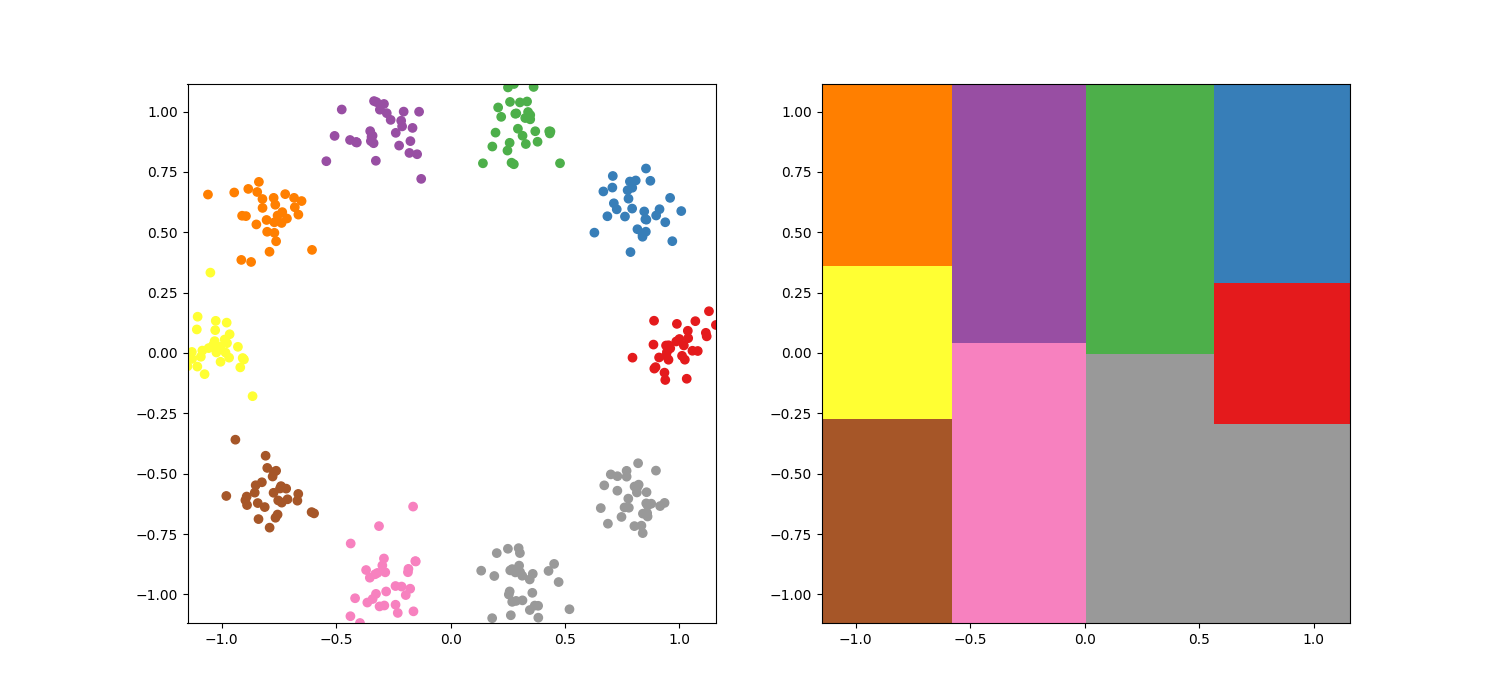
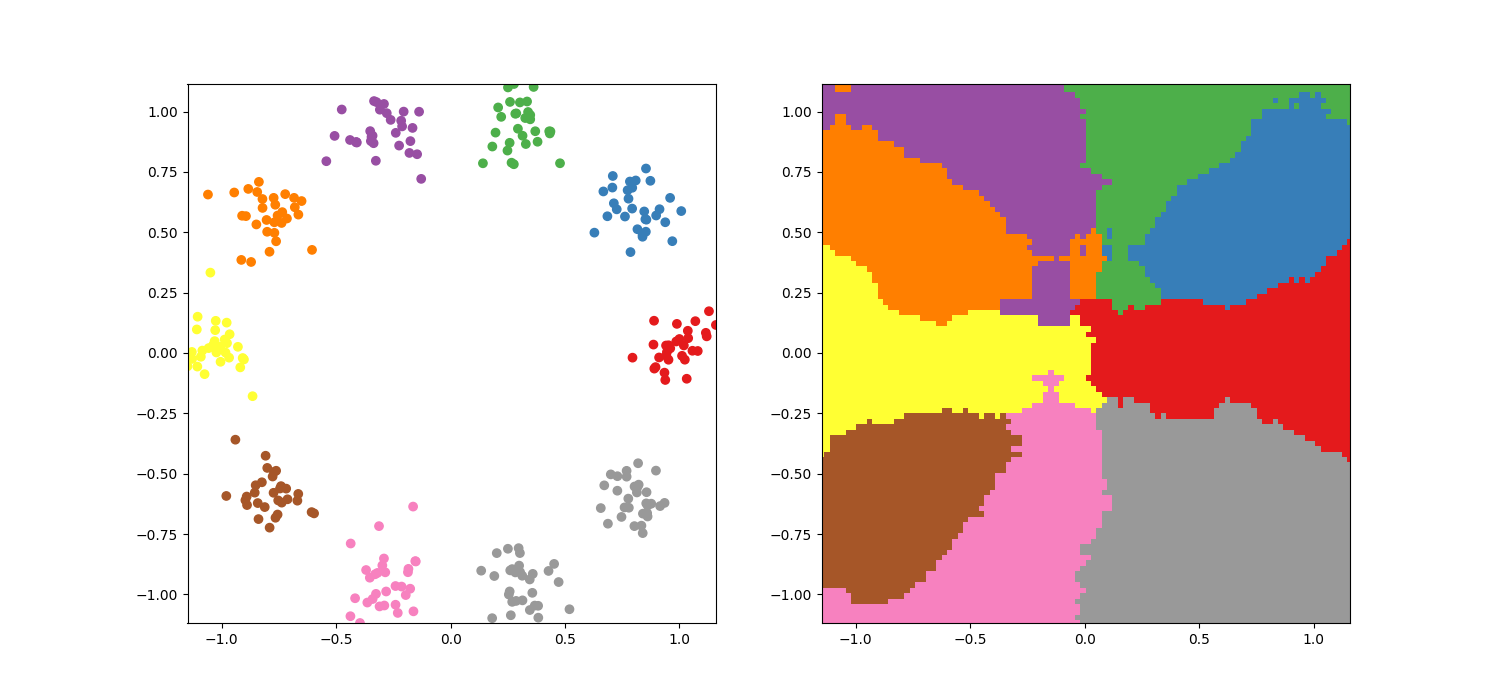
Task 9: Random forest (mode of tree predictions)

diff --git a/supervised_learning/decision_tree/9-main_2.py b/supervised_learning/decision_tree/9-main_2.py
@@ -1,0 +1,87 @@
+#!/usr/bin/env python3
+
+import matplotlib.pyplot as plt
+import numpy as np
+Random_Forest = __import__('9-random_forest').Random_Forest
+
+#                                     #########################
+#                                     # Generating examples : #
+#                                     #########################
+
+
+def circle_of_clouds(n_clouds, n_objects_by_cloud, radius=1, sigma=None, seed=0, angle=0):
+    """
+    This function returns a dataset made of 'n_clouds' classes.
+    Each class is a small gaussian cloud containing 'n_objects_by_cloud' points.
+    The centers of the clouds are regularly disposed on a circle of radius 'radius' (and center (0,0)).
+    The spreadth of the clouds is governed by 'sigma'.
+    """
+    rng = np.random.default_rng(seed)
+    if not sigma:
+        sigma = np.sqrt(2 - 2 * np.cos(2 * np.pi / n_clouds)) / 7
+
+    def rotate(x, k):
+        theta = 2 * k * np.pi / n_clouds + angle
+        m = np.matrix([[np.cos(theta), np.sin(theta)],
+                      [-np.sin(theta), np.cos(theta)]])
+        return np.matmul(x, m)
+
+    def cloud():
+        return (rng.normal(size=2 * n_objects_by_cloud) * sigma).reshape(n_objects_by_cloud, 2) + np.array([radius, 0])
+
+    def target():
+        return np.array(([[i] * n_objects_by_cloud for i in range(n_clouds)]), dtype="int32").ravel()
+
+    return np.concatenate([np.array(rotate(cloud(), k)) for k in range(n_clouds)], axis=0), target()
+
+#                                     #########################
+#                                     #    2D Visualization   #
+#                                     #########################
+
+
+def np_extrema(arr):
+    return np.min(arr), np.max(arr)
+
+
+def visualize_bassins(ax, model, x_min, x_max, y_min, y_max, cmap):
+    """ color the points of a box
+    with the color corresponding to the class predicted by the model """
+    assert model.explanatory.shape[1] == 2, "Not a 2D example"
+    X = np.linspace(x_min, x_max, 100)
+    Y = np.linspace(y_min, y_max, 100)
+    XX, YY = np.meshgrid(X, Y)
+    XX_flat = XX.ravel()
+    YY_flat = YY.ravel()
+    Z = model.predict(np.vstack([XX_flat, YY_flat]).T)
+    ax.pcolormesh(XX, YY, Z.reshape([100, 100]), cmap=cmap, shading='auto')
+
+
+def visualize_training_dataset_2D(ax, model, cmap):
+    """ color the points of the 'explanatory' array
+    with the color corresponding to the class stored in 'target' """
+    ax.scatter(model.explanatory[:, 0],
+               model.explanatory[:, 1], c=model.target, cmap=cmap)
+
+
+def visualize_model_2D(model, cmap=plt.cm.Set1):
+    """ gather the results of visualize_bassins and visualize_training_dataset_2D """
+    assert model.explanatory.shape[1] == 2, "Not a 2D example"
+
+    x_min, x_max = np_extrema(model.explanatory[:, 0])
+    y_min, y_max = np_extrema(model.explanatory[:, 1])
+    fig, axes = plt.subplots(1, 2, figsize=(15, 7))
+    for ax in axes:
+        ax.set_xlim(x_min, x_max)
+        ax.set_ylim(y_min, y_max)
+    visualize_training_dataset_2D(axes[0], model, cmap)
+    visualize_bassins(axes[1], model, x_min, x_max, y_min, y_max, cmap)
+    plt.savefig("bassins2.png")
+    plt.show()
+
+
+# Main2
+explanatory, target = circle_of_clouds(10, 30)
+F = Random_Forest()
+F.fit(explanatory, target, verbose=0)
+
+visualize_model_2D(F)

diff --git a/supervised_learning/decision_tree/9-main_1.py b/supervised_learning/decision_tree/9-main_1.py
@@ -1,0 +1,75 @@
+#!/usr/bin/env python3
+
+from sklearn import datasets
+import numpy as np
+Random_Forest = __import__('9-random_forest').Random_Forest
+
+
+#                                     #########################
+#                                     # Generating examples : #
+#                                     #########################
+
+def circle_of_clouds(n_clouds, n_objects_by_cloud, radius=1, sigma=None, seed=0, angle=0):
+    """
+    This function returns a dataset made of 'n_clouds' classes.
+    Each class is a small gaussian cloud containing 'n_objects_by_cloud' points.
+    The centers of the clouds are regularly disposed on a circle of radius 'radius' (and center (0,0)).
+    The spreadth of the clouds is governed by 'sigma'.
+    """
+    rng = np.random.default_rng(seed)
+    if not sigma:
+        sigma = np.sqrt(2 - 2 * np.cos(2 * np.pi / n_clouds)) / 7
+
+    def rotate(x, k):
+        theta = 2 * k * np.pi / n_clouds + angle
+        m = np.matrix([[np.cos(theta), np.sin(theta)],
+                      [-np.sin(theta), np.cos(theta)]])
+        return np.matmul(x, m)
+
+    def cloud():
+        return (rng.normal(size=2 * n_objects_by_cloud) * sigma).reshape(n_objects_by_cloud, 2) + np.array([radius, 0])
+
+    def target():
+        return np.array(([[i] * n_objects_by_cloud for i in range(n_clouds)]), dtype="int32").ravel()
+
+    return np.concatenate([np.array(rotate(cloud(), k)) for k in range(n_clouds)], axis=0), target()
+
+
+def iris():
+    """ Returns the explanatory features and the target of the famous iris dataset """
+    iris = datasets.load_iris()
+    return iris.data, iris.target
+
+
+def wine():
+    """ Returns the explanatory features and the target of the wine dataset """
+    wine = datasets.load_wine()
+    return wine.data, wine.target
+
+
+#                                     #########################
+#                                     #    Data preparation   #
+#                                     #########################
+
+def split(explanatory, target, seed=0, proportion=.1):
+    """ Returns a dictionary containing a a training dataset and a test dataset """
+    rng = np.random.default_rng(seed)
+    test_indices = rng.choice(target.size, int(
+        target.size * proportion), replace=False)
+    test_filter = np.zeros_like(target, dtype="bool")
+    test_filter[test_indices] = True
+
+    return {"train_explanatory": explanatory[np.logical_not(test_filter), :],
+            "train_target": target[np.logical_not(test_filter)],
+            "test_explanatory": explanatory[test_filter, :],
+            "test_target": target[test_filter]}
+
+
+# Main 1
+for d, name in zip([split(*circle_of_clouds(10, 30)), split(*iris()), split(*wine())], ["circle of clouds", "iris dataset", "wine dataset"]):
+    print("-"*52+"\n"+name+" :")
+    F = Random_Forest(max_depth=6)
+    F.fit(d["train_explanatory"], d["train_target"], verbose=1)
+    print(
+        f"    - Accuracy on test          : {F.accuracy(d['test_explanatory'],d['test_target'])}")
+print("-"*52)

diff --git a/supervised_learning/decision_tree/9-random_forest.py b/supervised_learning/decision_tree/9-random_forest.py
@@ -1,0 +1,66 @@
+#!/usr/bin/env python3
+
+"""
+This is the 9-random_forest module, relying on module
+8-build_decision_tree.
+"""
+
+Decision_Tree = __import__('8-build_decision_tree').Decision_Tree
+import numpy as np
+
+
+class Random_Forest():
+    def __init__(self, n_trees=100, max_depth=10, min_pop=1, seed=0):
+        self.numpy_predicts = []
+        self.target = None
+        self.numpy_preds = None
+        self.n_trees = n_trees
+        self.max_depth = max_depth
+        self.min_pop = min_pop
+        self.seed = seed
+
+    def predict(self, explanatory):
+        """
+        Returns of array of the most frequent prediction for
+        each tree in numpy_preds, based on given explanatory.
+        """
+        # Generate predictions for each tree in the forest
+        predictions = np.array(
+            [tree_predict(explanatory) for tree_predict in self.numpy_preds])
+
+        # Calculate the mode (most frequent) prediction for each example
+        mode_predictions = np.apply_along_axis(
+            lambda x: np.bincount(x).argmax(), # Mode
+            axis=0, # Axis is 0 since it's a 1D array
+            arr=predictions) # Applied to array of predictions
+
+        return mode_predictions
+
+    def fit(self, explanatory, target, n_trees=100, verbose=0):
+        self.target = target
+        self.explanatory = explanatory
+        self.numpy_preds = []
+        depths = []
+        nodes = []
+        leaves = []
+        accuracies = []
+        for i in range(n_trees):
+            T = Decision_Tree(max_depth=self.max_depth,
+                              min_pop=self.min_pop, seed=self.seed+i)
+            T.fit(explanatory, target)
+            self.numpy_preds.append(T.predict)
+            depths.append(T.depth())
+            nodes.append(T.count_nodes())
+            leaves.append(T.count_nodes(only_leaves=True))
+            accuracies.append(T.accuracy(T.explanatory, T.target))
+        if verbose == 1:
+            print(f"""  Training finished.
+    - Mean depth                     : { np.array(depths).mean()      }
+    - Mean number of nodes           : { np.array(nodes).mean()       }
+    - Mean number of leaves          : { np.array(leaves).mean()      }
+    - Mean accuracy on training data : { np.array(accuracies).mean()  }
+    - Accuracy of the forest on td   : {self.accuracy(self.explanatory,self.target)}""")
+
+    def accuracy(self, test_explanatory, test_target):
+        return np.sum(np.equal(self.predict(test_explanatory),
+                               test_target)) / test_target.size
